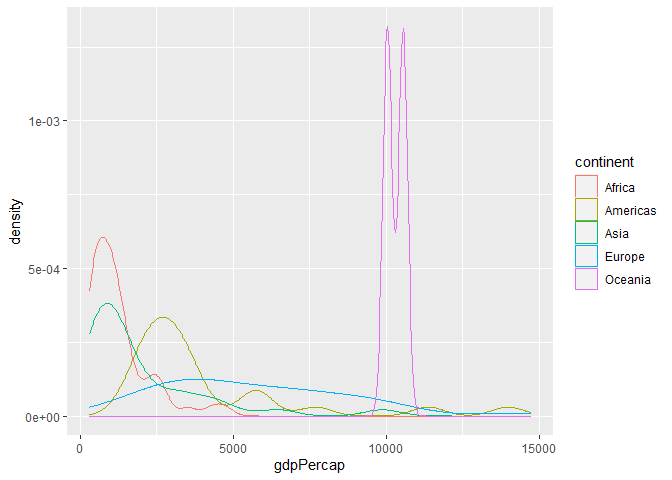
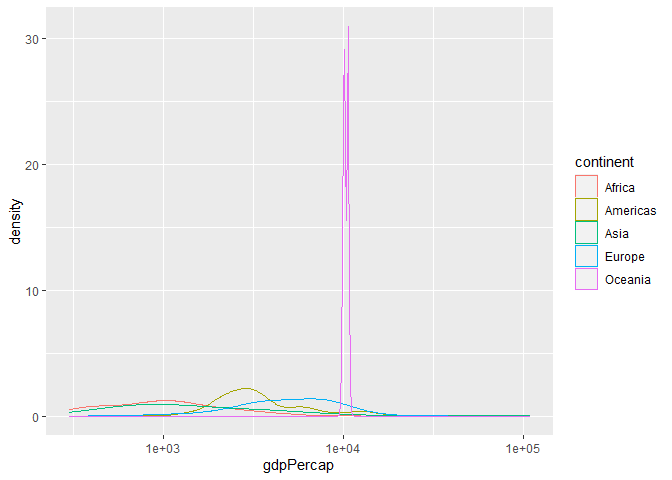
c04 revisions

diff --git a/challenges/c04-gapminder-assignment.md b/challenges/c04-gapminder-assignment.md
@@ -208,9 +208,9 @@ can.
 ## TASK: Create a visual of gdpPercap vs continent
 gapminder %>%
   filter(year == year_min) %>%
-  filter(gdpPercap < 30000) %>%
   ggplot(aes(x = gdpPercap, color = continent)) +
-    geom_density()
+    geom_density() +
+  scale_x_log10()
 ```
 
 ![](c04-gapminder-assignment_files/figure-gfm/q2-task-1.png)<!-- -->
@@ -218,22 +218,27 @@ gapminder %>%
 ``` r
 gapminder %>%
   filter(year == year_min) %>%
-  filter(gdpPercap < 30000) %>%
   ggplot(aes(x = gdpPercap, color = continent)) +
-    geom_boxplot()
+    geom_boxplot() +
+  scale_x_log10()
 ```
 
 ![](c04-gapminder-assignment_files/figure-gfm/q2-task-2.png)<!-- -->
 
 **Observations**:
 
-- Write your observations here
+- Each continent has countries that vary greatly in GDP except Oceania.
+  - In this dataset Oceania is only Australia and New Zealand
+- Europe and the Americas are substantially wealthier than Africa and
+  Asia in 1952
 
 **Difficulties & Approaches**:
 
 - `geom_density` is not a particularly useful visualization because the
   outliers extend the axis beyond the bulk of the distribution.
-  - I filtered out the high gdp countries to address this
+  - I initially filtered out the highest gdp country to address this
+  - Using a log scale on the `x` axis produces a better visualization,
+    but the `geom_density` is still poorly suited to this task.
 - A boxplot is an overall better visualization. It handles the one
   extreme value very well but still benefits from the same filter to
   expand the useful real estate for the rest of the visualization.

diff --git a/challenges/c03-stang-assignment.md b/challenges/c03-stang-assignment.md
@@ -275,6 +275,16 @@ df_stang_long
 
 ``` r
 df_stang_long %>%
+  distinct(alloy)
+```
+
+    ## # A tibble: 1 × 1
+    ##   alloy  
+    ##   <chr>  
+    ## 1 al_24st
+
+``` r
+df_stang_long %>%
   group_by(thick) %>%
   summarise(E = mean(E), nu = mean(nu))
 ```
@@ -300,7 +310,8 @@ df_stang_long %>%
     based on thickness) I personally assume there may be a limit to the
     measurement setup that introduced an error.
 - How many aluminum alloys are in this dataset? How do you know?
-  - There is only one distinct alloy, 2024 (24ST)
+  - There is only one distinct alloy, 2024 (24ST). I manually inspected
+    the data and confirmed there was one value for alloy with code.
 - What angles were tested?
   - 0, 45, and 90 deg
 - What thicknesses were tested?
